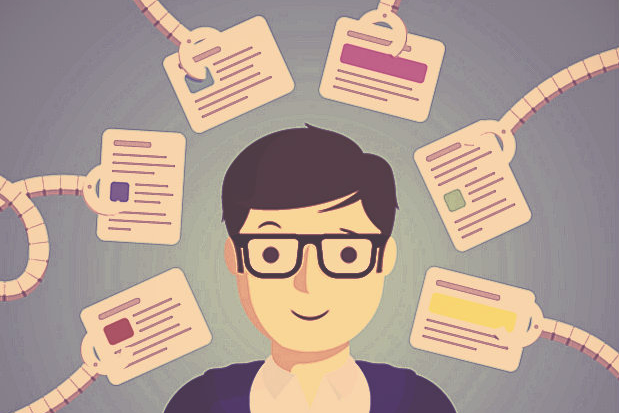
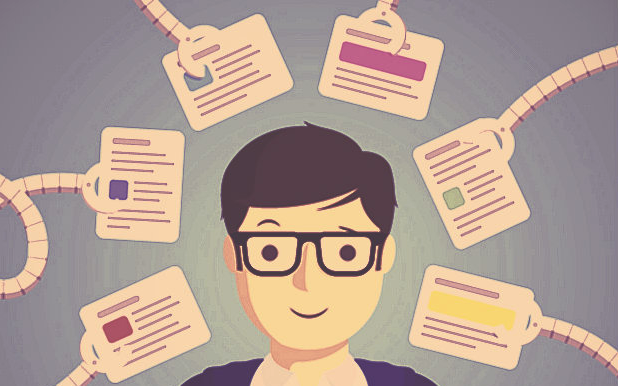
update

diff --git a/index.html b/index.html
@@ -320,7 +320,7 @@
                         <div class="break"></div>
                         <div class="g1">
                             <div class="image">
-                                <img src="images/customer-relationship.jpg" alt="">
+                                <img src="images/customer-trust.jpg" alt="">
                                 <div class="image-overlay">
                                     <div class="image-link">
                                         <a href="https://github.com/luoyuweidu/RFM-Analysis-in-python/blob/master/RFM%20analysis%20in%20Python.ipynb" class="btn">Who is best customer? - RFM Analysis</a>
